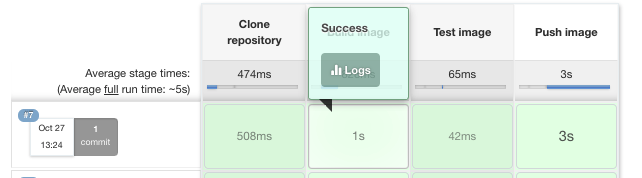
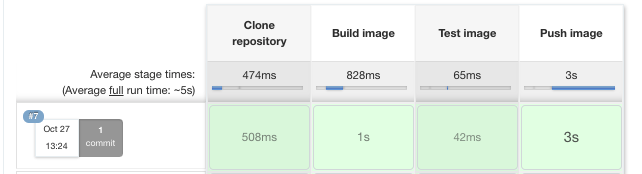
initial edits (editing pass done)

diff --git a/blog/2022-q1/jenkins-docker-acr/index.md b/blog/2022-q1/jenkins-docker-acr/index.md
@@ -13,32 +13,56 @@ tags:
  - Jenkins
 ---
 
-Set up Jenkins (link to previous article)
+This blog will build a docker image in a Jenkinsfile and publish the image to Amazon Elastic Container Registry (ECR). To follow along, you will need:
 
-AWS IAM
+- An Amazon Web Services Account (AWS)
+- A Jenkins instance
+- A GitHub account
 
-Go to Amazon **IAM, Users, [your user], Security credentials, Create Access Key
+The [Traditional Jenkins Installation](/blog/2022-q1/jenkins-install-guide/index.md), [Docker Jenkins Installation](/blog/2022-q1/jenkins-docker-install-guide/index.md), or [Helm Jenkins Installation](/blog/2022-q1/jenkins-helm-install-guide/index.md) guides provide instructions to install Jenkins in your chosen environment.
 
-Make note of the Access Key ID and the Secret Access Key
+## Amazon Web Services setup
 
-AWS Elastic Container Registry
+To set up AWS for Jenkins, we need to create an access key and an ECR repository to store the image.
 
-Create repository
+To create an access key, go to **Amazon Console &rarr; IAM &rarr; Users &rarr; [your user] &rarr; Security credentials &rarr; Create Access Key**
 
-make note of the zone that the repository is in.
+Your browser will download a file containing the Access Key ID and the Secret Access Key. These values will be used in Jenkins to authenticate to Amazon.
 
+To create a repository, go to the **Amazon Console &rarr; ECR &rarr; Create Repository**
 
-Manage Credentials
+The ECR requires an image repository set up for each image you want to publish. Name the repository the name you want the image to have. 
+
+Under **Amazon ECR &rarr; Repositories**, you will see your repository. Make a note of the zone it is in, which is in the URI field.
+
+![ECR Repository](ecr-repository.png)
+
+## Jenkins setup
+
+We will use a Jenkinsfile to compile, build, test, and push the image to Amazon ECR. A Jenkins file is a configuration file that defines a Jenkins Pipeline. A Jenkins Pipeline is a series of steps that Jenkins will perform on an artifact to achieve the desired result. In this case, it is the clone, build, test, and push of an image to Amazon ECR. The power of using a Jenkinsfile is to check it into source control to manage different versions of the file.
+
+In your Jenkins instance, go to **Manage Jenkins &rarr; Manage Credentials &rarr; Jenkins Store &rarr; Global Credentials (unrestricted) &rarr; Add Credentials**
 
 ![Manage Credentials](manage-credentials.png)
 
-put int the Access Key ID and Secret Access Key from earlier
+Fill in the following fields, leaving everything else as default:
+
+- **Kind**-AWS credentials
+- **ID** - amazon-credentials
+- **Access Key ID**- Access Key ID from earlier
+- **Secret Access Key**- Secret Access Key from earlier 
+
+Click **OK** to save.
 
 ![Input Key](input-key.png)
 
-Set up pipeline
+Go to the **Jenkins Dashboard &rarr; New Item**
+
+Give your pipeline a name and select the pipeline item then **OK**
 
 ![Add Pipeline](add-pipeline.png)
+
+Fill out the following fields for the pipeline, leaving everything else as default:
 
 **GitHub hook trigger for GITScm polling** - Check the box
 
@@ -50,9 +74,28 @@ Set up pipeline
 
 Click **SAVE**
 
-Connect repository (Simple-Octo)
+## GitHub setup
 
-Jenkinsfile
+For this example, we will use a sample web application that displays an animated underwater Octopus named simple-octo.
+
+Fork the repository at https://github.com/terence-octo/simple-octo
+
+We want to set up a webhook so that Jenkins can know when the repository is updated. To do this, go to **Settings &rarr; Webhooks**
+
+![webhook](webhook.png)
+
+Fill out the following fields, leaving everything else as default.
+
+**Payload URL** - http://[jenkins-url]/github-webhook/
+
+**Content Type** - application/json
+
+**Which events would you like to trigger this webhook?**- Just the push event
+
+Click **Add webhook** to save.
+
+Add a Jenkins file to the root level of the repository. You will need to reference your Amazon ECR repository. Note the following changes required below:
+
 ```
 node {
     def app
@@ -65,18 +108,18 @@ node {
     stage('Build image') {
         /* Referencing the image name in AWS */
 
-        app = docker.build("terence.wong")
+        app = docker.build("[name of your AWS ECR repository]")
     }
     
     stage('Test image') {
-    /* Empty for test purposes */
-
+    /* Empty */
 
     }
 
     stage('Push image') {
         /* Referencing the AWS registry. Tagging with the Jenkins build number and the latest tag */
-        docker.withRegistry('https://720766170633.dkr.ecr.us-east-2.amazonaws.com', 'ecr:us-east-2:amazon-credentials') {
+        
+        docker.withRegistry('[the URI of your repository]', 'ecr:[the zone of your AWS ECR repository]:[the ID of your jenkins AWS credentials]') {
             app.push("${env.BUILD_NUMBER}")
             app.push("latest")
         }
@@ -84,24 +127,17 @@ node {
 }
 ```
 
-Add webhook
-
-![webhook](webhook.png)
-
-**Payload URL** - http://[jenkins-url]/github-webhook/
-
-**Content Type** - application/json
-
-Commit
-
-Check Jenkins
+Commit your code to GitHub. The commit will trigger a build job in Jenkins. Go to your Jenkins instance URL to see the build.
 
 ![Jenkins Success](jenkins-success.png)
 
-Check ECR
+After the build finishes, you can go to the Amazon ECR to see a new image built and pushed to the repository. Note that it has tagged the latest push with the Jenkins build number and `latest`.
 
 ![ECR Success](ecr-success.png)
 
+In this blog, you have set up a Jenkins pipeline to build a GitHub repository and push it to Amazon ECR. The Jenkinsfile can push to other repositories such as Google or Microsoft. It can also include additional stages depending on the build requirements. 
+
+Happy Deployments!
 
 
 
